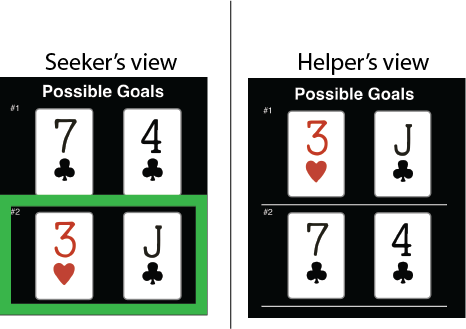
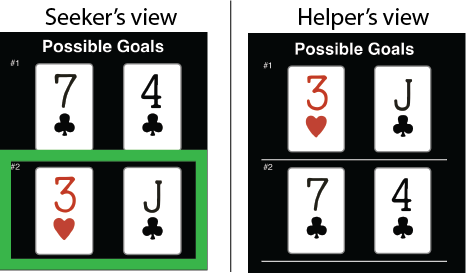
streamline instructiobns

diff --git a/experiments/CardsExperiment/forms/instructions.html b/experiments/CardsExperiment/forms/instructions.html
@@ -67,54 +67,69 @@
 	<p>
 	  <center>
 	    <img src="images/cardViews.png" alt="Example objects"
-		 style="width:585px; height:329px">
+		 style="width:400px; height:225px">
 	  </center>
 	</p>
 
 	<p>
-	  Luckily for the seeker, they are able to ask the helper
-	  about the locations of specific cards. Specifically, the
-	  seeker must choose a card to ask about and type its full
-	  name to complete the question: "Where is the ...?"
+	  There are two things you need to know to succeed.
+	</p>
+
+	<ol>
+	  <li>
+	    <b>Both the seeker and the helper can see the list of
+	      possible goals</b>. So the helper knows the seeker is trying to
+	    obtain one of these sets but does not know which one:
+	  </li>
+	  <p>
+	    <center>
+	      <img src="images/goalViews.png" alt="Example goals"
+		   style="width:400px; height:280px">
+	    </center>
+	  </p>
+	  <li>
+	    The seeker is able to <b>ask the helper</b> a
+	    question about the location of a card. Specifically, the
+	    seeker must choose a card to ask about and type its full
+	    name to complete the question: "Where is the ...?"
+	    <p>
+	      <center>
+		<img src="images/message.png" alt="Example objects"
+		     style="width:292px; height:102px">
+	      </center>
+	    </p>
+
+	    <p>
+	      The helper will then see this question and select which
+	      cards to reveal (by clicking on the cards, and then on the
+	      'REVEAL' button). They will need to wait until the seeker
+	      has sent a question before being able to click anything.
+	    </p>
+	    <p>
+	      <center>
+		<img src="images/response.png" alt="reveal"
+		     style="width:300px; height:349px">
+	      </center>
+	    </p>
+	  </li>
+	</ol>	
+
+	<p>
+	  On every round, it is possible to achieve the goal in a
+	  single exchange. This is how you get the maximum <b>bonus of
+	  $0.05</b>. When the card or cards in the speaker's goal are
+	  revealed, you will <b>switch roles</b> and advance to the
+	  next round. Otherwise, the seeker must choose another card
+	  to ask about until the goal cards are revealed. For every
+	  extra follow-up question the seeker needs to ask, and for
+	  every extra card not in the goal that the helper reveals,
+	  your bonus will decrease by $0.01, so pay attention to your
+	  choices!
 	</p>
 
 	<p>
-	  <center>
-	    <img src="images/message.png" alt="Example objects"
-		 style="width:730px; height:256px">
-	  </center>
-	</p>
-
-	<p>
-	  The helper will then see this question and select one or two
-	  cards to reveal (by clicking on the cards, and then on the
-	  'REVEAL' button). They will need to wait until the seeker has
-	  sent a question before being able to click anything.
-	</p>
-	
-	<p>
-	  <center>
-	    <img src="images/response.png" alt="reveal"
-		 style="width:600px; height:698px">
-	  </center>
-	</p>
-
-	<p>
-	  If the card or cards in the speaker's goal are revealed, you
-	  will <b>switch roles</b> and advance to the next
-	  round. Otherwise, the seeker must ask about another card
-	  until the goal cards are revealed. 
-	</p>
-
-	<p>
-	  You'll both get up to <b>a bonus of $0.05</b> when the
-	  seeker achieves their goal. However, you will be rewarded
-	  for doing it as efficiently as possible: for every follow-up
-	  question the seeker needs to ask, and for every card not in
-	  the goal that the helper reveals, your bonus will decrease
-	  by $0.01, so pay attention! There are a total of <b>6
-	  rounds</b>. After the final round you will answer a few more
-	  questions and be on your way.
+	  There are a total of <b>6 rounds</b>. After the final round
+	  you will answer a few more questions and be on your way.
 	</p>
 	
 	<p>
@@ -137,10 +152,6 @@
 	  with: their bonus payment depends on your performance as
 	  well, so please pay close attention and try to be as
 	  responsive and helpful as possible.
-	</p>
-
-	<p>
-	  Third, <b>both the seeker and the helper can see the list of possible goals</b>. In other words, the helper knows the seeker is trying to obtain one of these sets but does not know which one.
 	</p>
 	
 	<p>
@@ -173,7 +184,7 @@
 
 
 	<br>
-	The <b>Helper</b> wants to reveal the cards in the Seeker's goal as soon as possible.
+	The <b>Helper</b> aims to reveal the cards in the Seeker's goal set and no others.
 	<br>
 	<input type="radio" name="mgoal" value="yes"> True
 	<br>
@@ -181,7 +192,7 @@
 	<br>
 
 	<br>
-	The Seeker must ask about a specific card (i.e. Where is the <b>jack of hearts</b>?)
+	The Seeker must pick a single card to ask about (i.e. Where is the <b>jack of hearts</b>?)
 	<br>
 	<input type="radio" name="message" value="yes"> True
 	<br>
@@ -197,7 +208,7 @@
 	<br>
 
 	<br>
-	Both the seeker and helper are both aware of the possible goals the seeker might have on each round.
+	The seeker and helper are both aware of all the possible goals the seeker might have on each round.
 	<br>
 	<input type="radio" name="location" value="yes"> True
 	<br>
